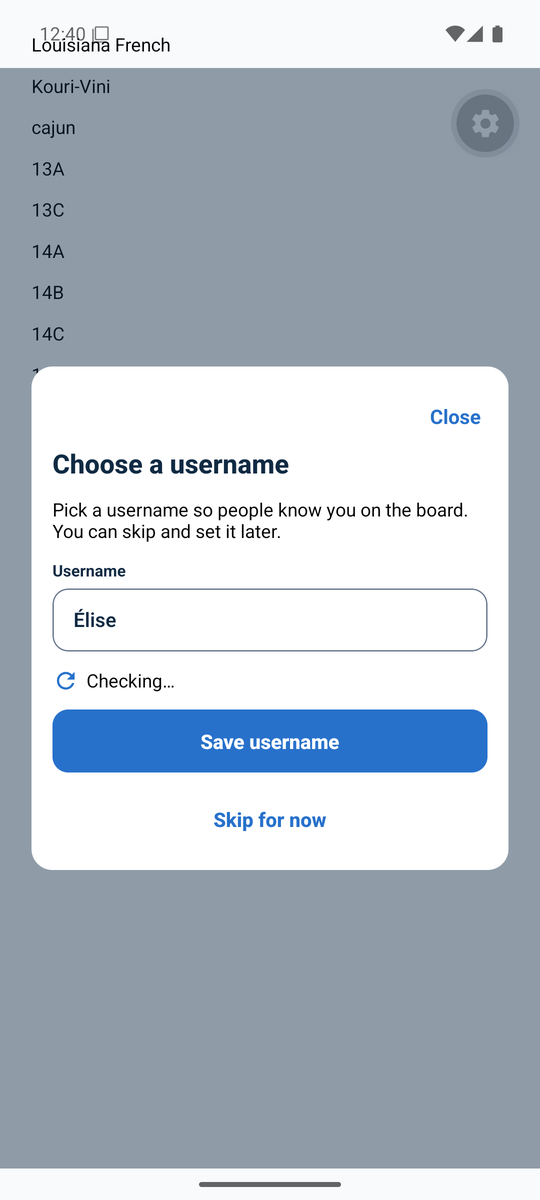
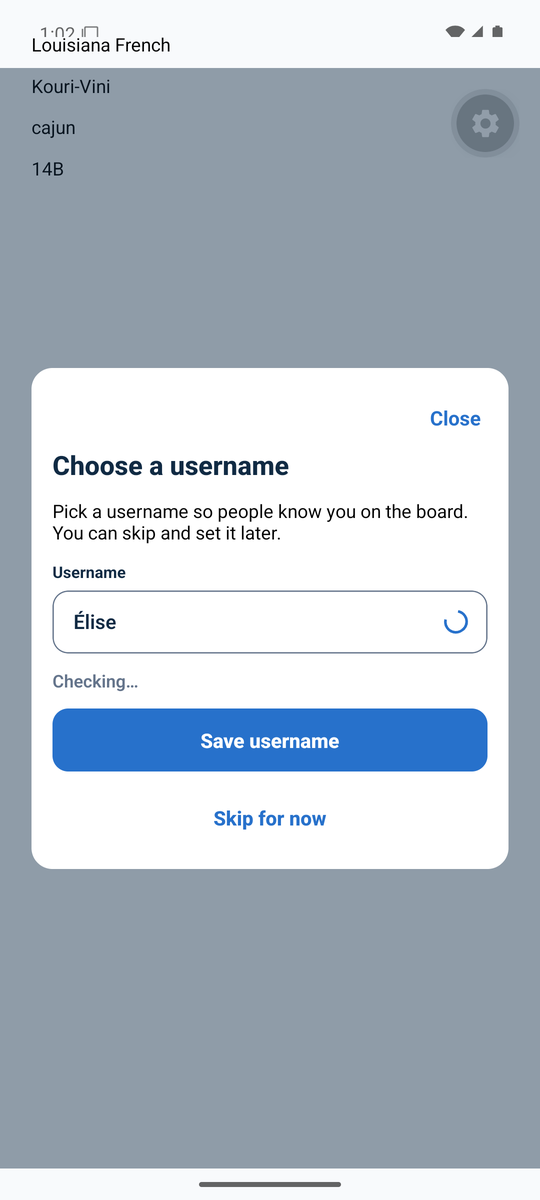
docs(account): retake the checking-ring shots

diff --git a/docs/evidence/BIO-65/c4c-14b-README.md b/docs/evidence/BIO-65/c4c-14b-README.md
@@ -1,0 +1,21 @@
+# BIO-65 C4c follow-up — checking ring inside the field
+
+The username step is not mounted on Home. `SHOW_ACCOUNT_MENU_ENTRY` stays false. The two 14B shots came from an uncommitted harness on `emulator-5580` (`lf-api35`, Expo Go). The harness is not in this commit. `emulator-5554` was left alone.
+
+## Click path
+
+1. The harness lists **Louisiana French**, **Kouri-Vini**, and **14B**. It opens 14B at once. The line under the buttons reads `cajun`.
+2. The username field shows **Élise** with an 18px blue ring at the trailing edge. The line under the field is plain **Checking…**, with no spinner. **Save username** stays blue and enabled. The field keeps its normal border.
+3. Tap **Close**. Tap **Kouri-Vini**. The line reads `kreole`. Tap **14B**. The ring is green. The helper and the enabled Save button are the same.
+
+## Regression
+
+Same emulator, after the harness was removed and the app was opened fresh. No clock change. No recording. iOS was not driven.
+
+1. Tap **French, Louisiana French**. Home shows Day 1 and **Start your new lesson**.
+2. Start the lesson. Continue past **Bonjour!**. On the match for Hello!, tap **Bonjour!** and **Check** (Correct, then Next Question). Continue past **Comment ça va?**. On the match for How’s it going?, tap **Skip**, then **Continue**. Back to Home.
+3. Tap **Review**. Daily Review says “No review cards are due right now.” Back to Home.
+4. Tap **Mistakes, 1 pending**. Mistake Review shows that match, 1 / 1. Back to Home.
+5. Tap **Hub**. Advanced French Hub shows Phrase 1/212, **Bonjour!**, Play Audio, and Record. Tap **Home**. Home is back, still Day 1, with the same pending mistake.
+
+No crash, blank screen, or stuck control. The account row is still absent.
